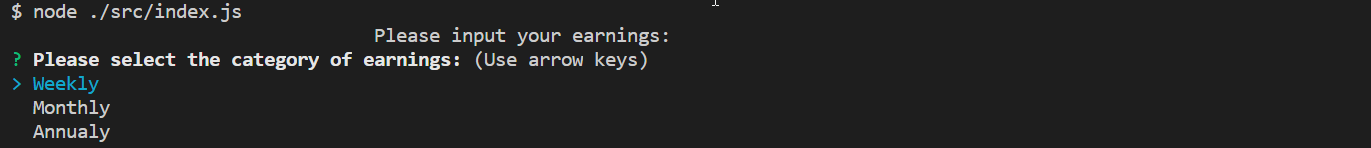
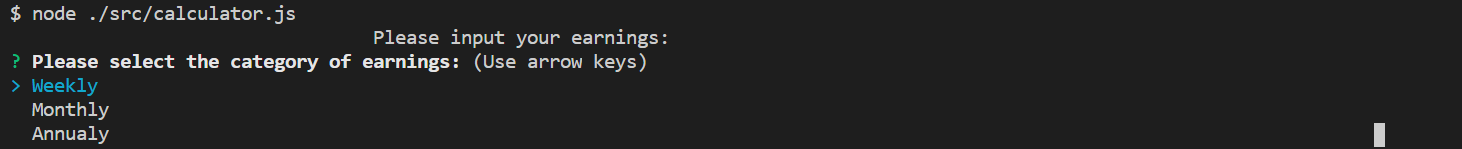
Updated to calculator

diff --git a/README.md b/README.md
@@ -12,7 +12,7 @@ Demo
 ------
 You can run the calculator using the command
 
-```node ./src/index.js```
+```node ./src/calculator.js```
 
 ![Command Screenshot](https://github.com/Vukory/Webpack_Starter/blob/master/assets/images/Command.png "Command")
 
